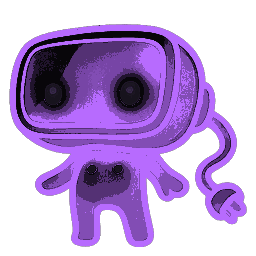
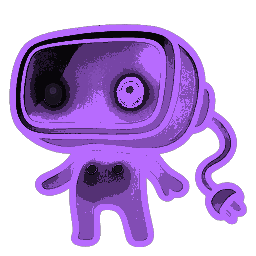
Shadow dye: colored eyes glow purple like the outlines
Claude-Session: https://claude.ai/code/session_016T1x9t3fXLSJ9Wj3N5qPHM

Changed region(s): [[0.4375, 0.2812, 0.5625, 0.4375]]

diff --git a/scripts/make_skins2.py b/scripts/make_skins2.py
@@ -46,6 +46,43 @@ def glow(alpha, radius, strength):
     return np.clip(blur * strength, 0, 1) * (1 - alpha)
 
 
+def eye_mask(lum, alpha):
+    """Rough iris finder for the Shadow dye. An iris is a small mid-tone blob in the upper part of the pet
+    that is ringed by the white of the eye, or ringed by a dark outline with a shine dot inside it."""
+    from scipy import ndimage
+    h, w = lum.shape
+    mid = (lum >= 0.22) & (lum < 0.72) & (alpha > 0.5)
+    lab, n = ndimage.label(mid)
+    m = np.zeros((h, w), dtype=bool)
+    if n == 0:
+        return m.astype(np.float32)
+    ys = np.nonzero(alpha > 0.5)[0]
+    top, bot = ys.min(), ys.max()
+    objs = ndimage.find_objects(lab)
+    for i, sl in enumerate(objs):
+        if sl is None:
+            continue
+        y0, y1 = max(sl[0].start - 4, 0), min(sl[0].stop + 4, h)
+        x0, x1 = max(sl[1].start - 4, 0), min(sl[1].stop + 4, w)
+        comp = lab[y0:y1, x0:x1] == (i + 1)
+        area = comp.sum()
+        if not (10 <= area <= h * w * 0.01):
+            continue
+        cy = (sl[0].start + sl[0].stop) / 2
+        if not (top <= cy <= top + (bot - top) * 0.62):
+            continue
+        filled = ndimage.binary_fill_holes(comp)
+        holes = filled & ~comp
+        ring = ndimage.binary_dilation(filled, iterations=2) & ~filled
+        L = lum[y0:y1, x0:x1]
+        white_ring = (L[ring] > 0.88).mean() if ring.any() else 0
+        dark_ring = (L[ring] < 0.22).mean() if ring.any() else 0
+        shine = (holes & (L > 0.85)).sum()
+        if white_ring >= 0.3 or (dark_ring >= 0.55 and shine >= 2):
+            m[y0:y1, x0:x1] |= comp
+    return m.astype(np.float32)
+
+
 def make(path, skin, seed):
     im = Image.open(path).convert('RGBA')
     arr = np.asarray(im, dtype=np.float32) / 255
@@ -264,6 +301,10 @@ def make(path, skin, seed):
         res = ramp(lum, [(0, '#000000'), (0.6, '#141018'), (0.85, '#2a2236'), (1, '#3a3050')])
         lines = np.clip((0.22 - lum) / 0.12, 0, 1) * alpha
         res = res * (1 - lines[..., None]) + hexc('#b86bff') * lines[..., None]
+        # Eyes always glow purple too. Colored eyes (red, blue, lavender...) would otherwise sink into the
+        # dark body, so find small enclosed shapes in the face that hold a white shine dot and fill them.
+        eyes = eye_mask(lum, alpha)
+        res = res * (1 - eyes[..., None]) + hexc('#b86bff') * eyes[..., None]
         halo, halo_color = glow(alpha, 6, 1.5), hexc('#7a3cff')
     elif skin == 'pastel':
         # Candy colors like macarons: each part of the pet keeps its own color family, made soft and light
